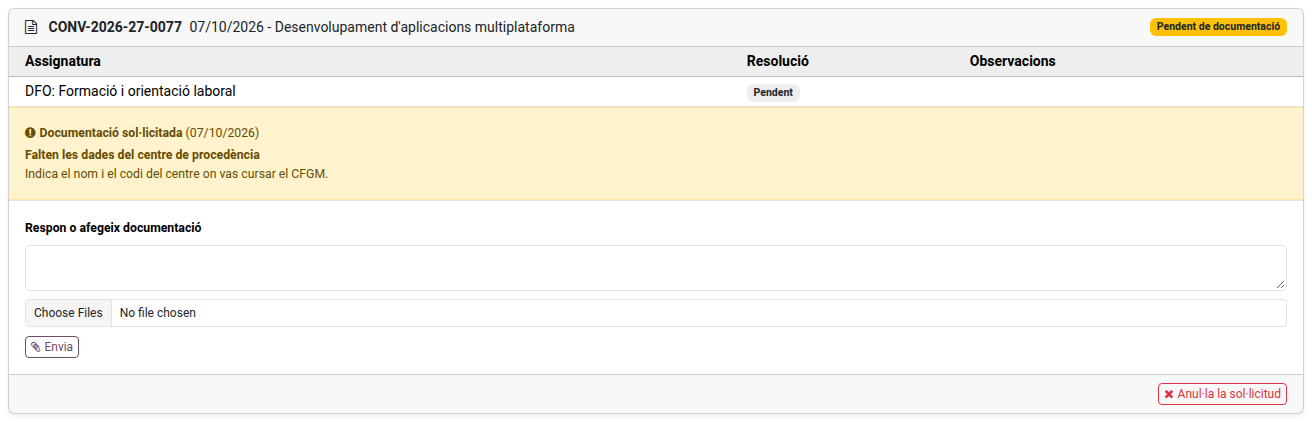
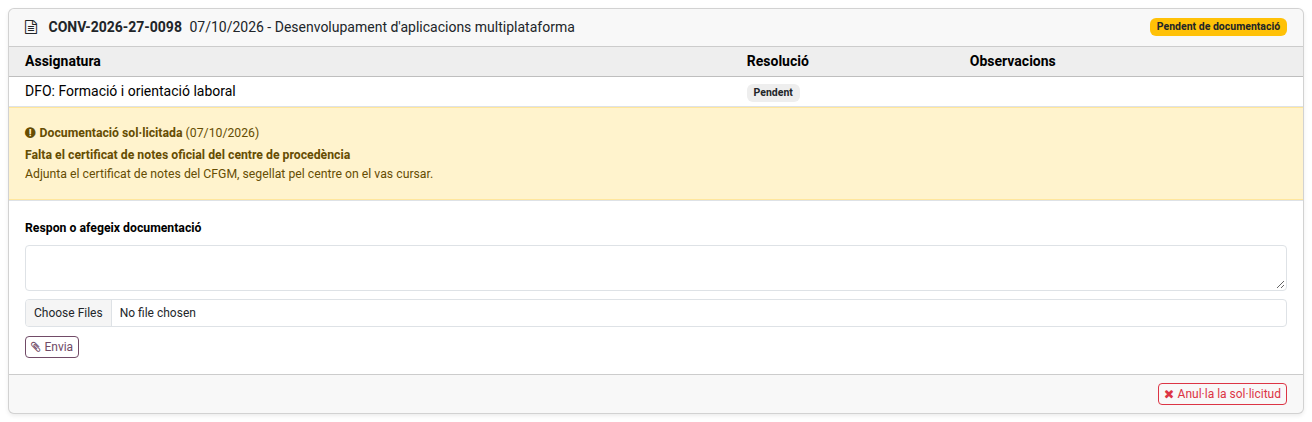
[IMP] Convalidations: default documentation reason is the official grade certificate (#577)
The preselected reason becomes "Missing official grade certificate from the previous centre"
(ca/es translated); manuals and the portal screenshot follow.

Changed region(s): [[0.0, 0.3389, 0.3438, 0.4313], [0.125, 0.0308, 0.1562, 0.0924]]

diff --git a/tests/test_convalidation.py b/tests/test_convalidation.py
@@ -650,8 +650,8 @@ class TestConvalidation(TransactionCase):
             lambda message: 'academic certificate' in (message.body or '')))
 
     def test_the_most_usual_reason_is_preselected(self):
-        """Like the strike reasons: the first by its own order, the missing data of the previous
-        centre - almost always the reason."""
+        """Like the strike reasons: the first by its own order, the missing official grade certificate of the
+        previous centre - almost always the reason."""
         reason = self.env.ref('ems.convalidation_info_reason_previous_centre')
         wizard = self.env['ems.convalidation.info_wizard'].with_user(self.head_of_studies).create({
             'convalidation_id': self._request().id})

diff --git a/tests/test_docs_screenshots.py b/tests/test_docs_screenshots.py
@@ -465,7 +465,7 @@ class TestDocsScreenshots(DocsScreenshotMixin, HttpCase):
         pending = new_request(self.portal_student, subjects[3:])
         self.env['ems.convalidation.info_wizard'].create({
             'convalidation_id': pending.id,
-            'message': "Indica el nom i el codi del centre on vas cursar el CFGM.",
+            'message': "Adjunta el certificat de notes del CFGM, segellat pel centre on el vas cursar.",
         }).action_send()
         self._capture(
             '/my/convalidaciones?new=1', '.o_ems_convalidation_new',

diff --git a/docs/en/developers/grades/convalidation.md b/docs/en/developers/grades/convalidation.md
@@ -69,7 +69,7 @@ erDiagram
 
 ### `ems.convalidation.info_reason` (documentation request reason)
 
-A catalog like `ems.strike.reason`: `name` (translatable), `sequence`, `active`; ordered by `sequence, name`. The information wizard preselects the first active one, so the most usual reason goes first. Seeded in `data/main/ems.convalidation.info_reason.csv` (`noupdate=False`, EMS's own data): missing data from the previous centre (first), missing academic certificate, missing syllabus, other. Maintained by the academic administrator from Academic management → Configuration → Documentation request reasons.
+A catalog like `ems.strike.reason`: `name` (translatable), `sequence`, `active`; ordered by `sequence, name`. The information wizard preselects the first active one, so the most usual reason goes first. Seeded in `data/main/ems.convalidation.info_reason.csv` (`noupdate=False`, EMS's own data): missing official grade certificate from the previous centre (first), missing academic certificate, missing syllabus, other. Maintained by the academic administrator from Academic management → Configuration → Documentation request reasons.
 
 ### `ems.convalidation.line` (subject)
 

diff --git a/docs/es/admin/convalidation-settings.md b/docs/es/admin/convalidation-settings.md
@@ -71,7 +71,7 @@ Cuando Jefatura de Estudios pide más documentación a un solicitante, elige un 
 Navega a: **Gestión académica → Configuración → Motivos de petición de documentación**
 
 - **Nombre:** el texto que el solicitante lee en el correo y en el portal. Escríbelo en cada idioma con el botón de idioma junto al campo.
-- **Orden:** arrastra las filas para ordenarlas. La primera aparece seleccionada cuando se pide documentación, así que pon primero el motivo más habitual (por defecto, **Faltan los datos del centro de procedencia**).
+- **Orden:** arrastra las filas para ordenarlas. La primera aparece seleccionada cuando se pide documentación, así que pon primero el motivo más habitual (por defecto, **Falta el certificado de notas oficial del centro de procedencia**).
 - Para dejar de ofrecer un motivo sin perder las solicitudes que lo han usado, archívalo.
 
 ---

diff --git a/docs/ca/admin/convalidation-settings.md b/docs/ca/admin/convalidation-settings.md
@@ -71,7 +71,7 @@ Quan Cap d'Estudis demana més documentació a un sol·licitant, tria un motiu d
 Navega a: **Gestió acadèmica → Configuració → Motius de petició de documentació**
 
 - **Nom:** el text que el sol·licitant llegeix al correu i al portal. Escriu-lo en cada idioma amb el botó d'idioma al costat del camp.
-- **Ordre:** arrossega les files per ordenar-les. La primera surt seleccionada quan es demana documentació, així que posa-hi primer el motiu més habitual (per defecte, **Falten les dades del centre de procedència**).
+- **Ordre:** arrossega les files per ordenar-les. La primera surt seleccionada quan es demana documentació, així que posa-hi primer el motiu més habitual (per defecte, **Falta el certificat de notes oficial del centre de procedència**).
 - Per deixar d'oferir un motiu sense perdre les sol·licituds que l'han fet servir, arxiva'l.
 
 ---

diff --git a/docs/en/admin/convalidation-settings.md b/docs/en/admin/convalidation-settings.md
@@ -71,7 +71,7 @@ When the Head of Studies asks an applicant for more documentation, they pick a r
 Navigate to: **Academic management → Configuration → Documentation request reasons**
 
 - **Name:** the text the applicant reads in the email and on the portal. Write it in each language with the language button next to the field.
-- **Order:** drag the rows to sort them. The first one comes selected when documentation is requested, so put the most usual reason first (by default, **Missing data from the previous centre**).
+- **Order:** drag the rows to sort them. The first one comes selected when documentation is requested, so put the most usual reason first (by default, **Missing official grade certificate from the previous centre**).
 - To stop offering a reason without losing the requests that used it, archive it.
 
 ---

diff --git a/changelog/577-convalidation-info-request-state.md b/changelog/577-convalidation-info-request-state.md
@@ -13,7 +13,7 @@
 - The "Request information" wizard now takes a required reason from a configurable catalog
   (Academic management > Configuration > Documentation request reasons), working like the strike
   reasons: translatable name, drag-to-order, archivable, first one preselected. Seeded with
-  "Missing data from the previous centre" (first, the usual case), missing academic certificate,
+  "Missing official grade certificate from the previous centre" (first, the usual case), missing academic certificate,
   missing syllabus and other. The free text becomes optional "Details". The email and the portal
   show the reason, in the reader's language, followed by the details.
 - New list filter "Pending documentation". It is not part of the default filters: those requests

diff --git a/docs/es/head_of_studies/convalidations.md b/docs/es/head_of_studies/convalidations.md
@@ -86,7 +86,7 @@ Para convalidar de una vez todos los módulos pendientes, elige **Convalidar los
 ### Pedir documentación
 
 1. En **Acciones**, elige **Pedir información**.
-2. Elige el **Motivo**. El más habitual, **Faltan los datos del centro de procedencia**, ya aparece seleccionado.
+2. Elige el **Motivo**. El más habitual, **Falta el certificado de notas oficial del centro de procedencia**, ya aparece seleccionado.
 3. Si hace falta, escribe en **Detalles** qué falta exactamente.
 4. Haz clic en **Enviar**.
 

diff --git a/docs/ca/head_of_studies/convalidations.md b/docs/ca/head_of_studies/convalidations.md
@@ -86,7 +86,7 @@ Per convalidar d'un sol cop tots els mòduls pendents, tria **Convalida els mòd
 ### Demanar documentació
 
 1. A **Accions**, tria **Demana informació**.
-2. Tria el **Motiu**. El més habitual, **Falten les dades del centre de procedència**, ja surt seleccionat.
+2. Tria el **Motiu**. El més habitual, **Falta el certificat de notes oficial del centre de procedència**, ja surt seleccionat.
 3. Si cal, escriu a **Detalls** què falta exactament.
 4. Fes clic a **Enviar**.
 

diff --git a/docs/en/head_of_studies/convalidations.md b/docs/en/head_of_studies/convalidations.md
@@ -86,7 +86,7 @@ To convalidate every pending module at once, choose **Convalidate pending subjec
 ### Asking for documentation
 
 1. In **Actions**, choose **Request information**.
-2. Choose the **Reason**. The most usual one, **Missing data from the previous centre**, comes selected.
+2. Choose the **Reason**. The most usual one, **Missing official grade certificate from the previous centre**, comes selected.
 3. If needed, write in **Details** exactly what is missing.
 4. Click **Send**.
 
